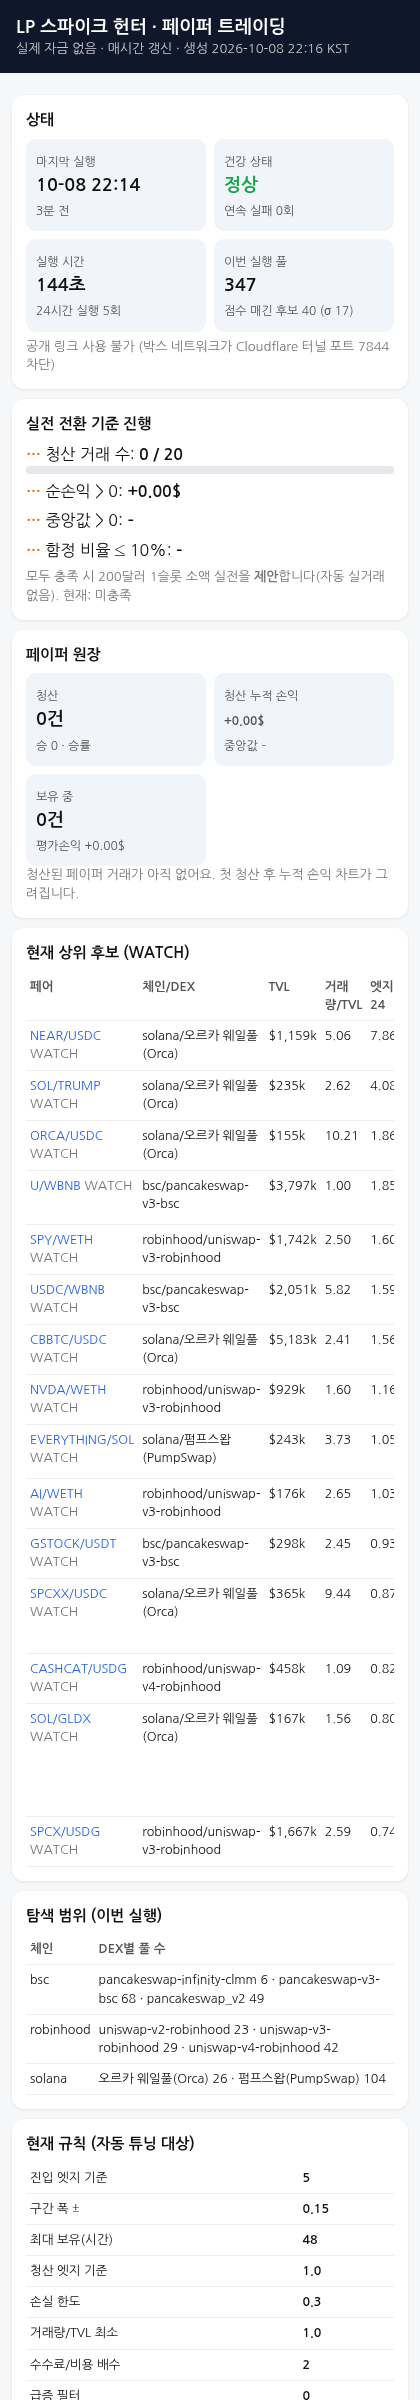
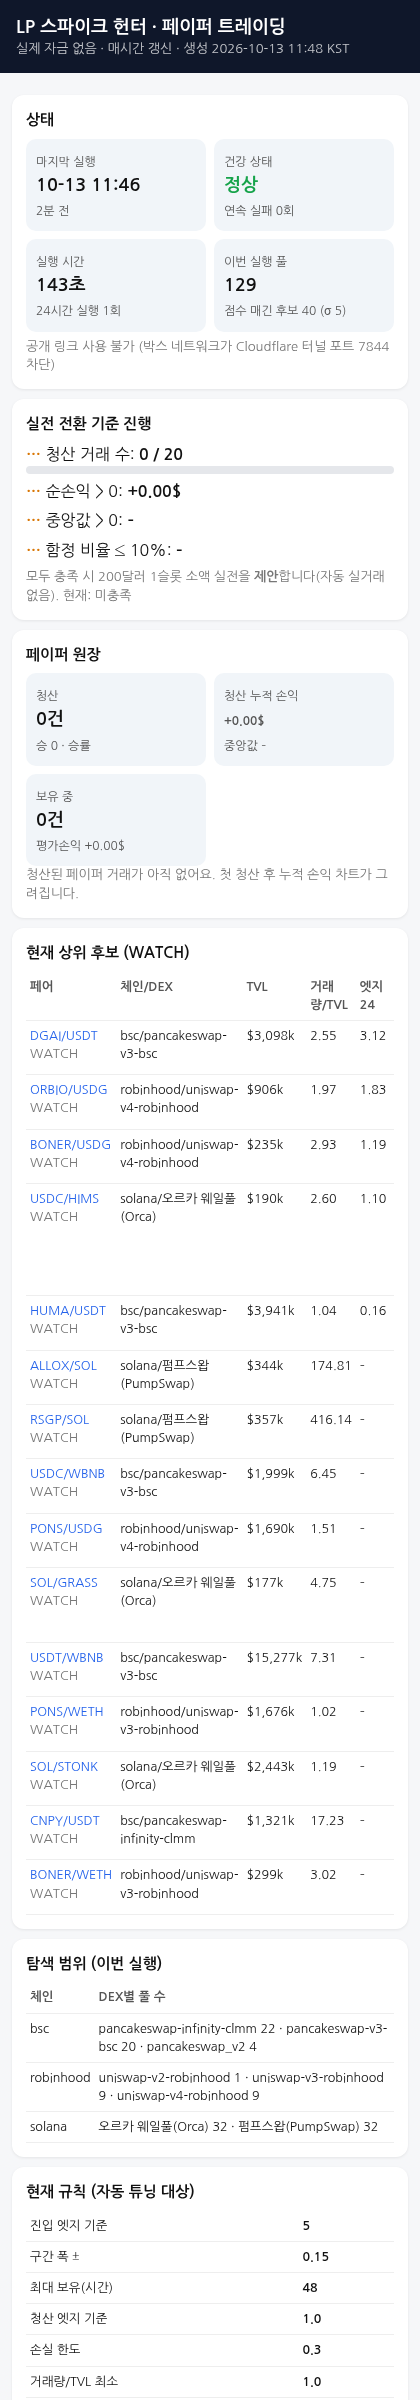
update 2026-10-13 11:48 KST

diff --git a/index.html b/index.html
@@ -12,12 +12,12 @@ th{color:#555;font-weight:600} .scroll{overflow-x:auto} .pos{color:#16a34a} .neg
 .bar{height:8px;background:#e5e7eb;border-radius:4px;overflow:hidden} .bar i{display:block;height:100%;background:#2563eb}
 .chart{width:100%;height:auto} a{color:#2563eb;text-decoration:none} .chg{color:#7c3aed;font-weight:600}
 </style></head><body>
-<header><h1>LP 스파이크 헌터 · 페이퍼 트레이딩</h1><div class="sub">실제 자금 없음 · 매시간 갱신 · 생성 2026-10-08 22:16 KST</div></header><main>
+<header><h1>LP 스파이크 헌터 · 페이퍼 트레이딩</h1><div class="sub">실제 자금 없음 · 매시간 갱신 · 생성 2026-10-13 11:48 KST</div></header><main>
 <div class="card"><h2>상태</h2><div class="grid">
-<div class="kpi"><span>마지막 실행</span><b>10-08 22:14</b><span>3분 전</span></div>
+<div class="kpi"><span>마지막 실행</span><b>10-13 11:46</b><span>2분 전</span></div>
 <div class="kpi"><span>건강 상태</span><b class="ok">정상</b><span>연속 실패 0회</span></div>
-<div class="kpi"><span>실행 시간</span><b>144초</b><span>24시간 실행 5회</span></div>
-<div class="kpi"><span>이번 실행 풀</span><b>347</b><span>점수 매긴 후보 40 (σ 17)</span></div>
+<div class="kpi"><span>실행 시간</span><b>143초</b><span>24시간 실행 1회</span></div>
+<div class="kpi"><span>이번 실행 풀</span><b>129</b><span>점수 매긴 후보 40 (σ 5)</span></div>
 </div><div class="muted" style="margin-top:6px">공개 링크 사용 불가 (박스 네트워크가 Cloudflare 터널 포트 7844 차단)</div></div>
 <div class="card"><h2>실전 전환 기준 진행</h2>
 <div style="margin:6px 0"><b class="warn">…</b> 청산 거래 수: <b>0 / 20</b><div class="bar"><i style="width:0%"></i></div></div>
@@ -32,26 +32,26 @@ th{color:#555;font-weight:600} .scroll{overflow-x:auto} .pos{color:#16a34a} .neg
 </div><div class="muted">청산된 페이퍼 거래가 아직 없어요. 첫 청산 후 누적 손익 차트가 그려집니다.</div>
 </div>
 <div class="card"><h2>현재 상위 후보 (WATCH)</h2><div class="scroll"><table><tr><th>페어</th><th>체인/DEX</th><th>TVL</th><th>거래량/TVL</th><th>엣지24</th><th>엣지6</th><th>진입 안 하는 이유</th></tr>
-<tr><td><a href='https://www.geckoterminal.com/solana/pools/77xSiQHXyH43U9RJr3FSupVzzuhh9WwweG6k3cce9sjR'>NEAR/USDC</a> <span class='muted'>WATCH</span></td><td>solana/오르카 웨일풀(Orca)</td><td>$1,159k</td><td>5.06</td><td>7.86</td><td>10.44</td><td><span class="tag">보안 플래그 (security:security_unchecked)</span></td></tr>
-<tr><td><a href='https://www.geckoterminal.com/solana/pools/Ckp1kwZqosaLU1h3zWtuaMBubyWM7LX3cxYezRVin7p2'>SOL/TRUMP</a> <span class='muted'>WATCH</span></td><td>solana/오르카 웨일풀(Orca)</td><td>$235k</td><td>2.62</td><td>4.08</td><td>9.39</td><td><span class="tag">24h 엣지 부족 (edge24&lt;5)</span><span class="tag">보안 플래그 (security:top10_holders=89%)</span></td></tr>
-<tr><td><a href='https://www.geckoterminal.com/solana/pools/5Z66YYYaTmmx1R4mATAGLSc8aV4Vfy5tNdJQzk1GP9RF'>ORCA/USDC</a> <span class='muted'>WATCH</span></td><td>solana/오르카 웨일풀(Orca)</td><td>$155k</td><td>10.21</td><td>1.86</td><td>0.18</td><td><span class="tag">24h 엣지 부족 (edge24&lt;5)</span><span class="tag">6h 엣지 부족 (edge6&lt;5)</span><span class="tag">보안 플래그 (security:security_unchecked)</span></td></tr>
-<tr><td><a href='https://www.geckoterminal.com/bsc/pools/0x882e23dba77bfe0e514cf5bcdad7a58aceb01522'>U/WBNB</a> <span class='muted'>WATCH</span></td><td>bsc/pancakeswap-v3-bsc</td><td>$3,797k</td><td>1.00</td><td>1.85</td><td>1.34</td><td><span class="tag">24h 엣지 부족 (edge24&lt;5)</span><span class="tag">6h 엣지 부족 (edge6&lt;5)</span><span class="tag">보안 플래그 (security:security_unchecked)</span><span class="tag">수수료&lt;비용 (fee24&lt;2x_cost)</span></td></tr>
-<tr><td><a href='https://www.geckoterminal.com/robinhood/pools/0xddcbba3666f578e3f09516f21ff85bfee859ab5e'>SPY/WETH</a> <span class='muted'>WATCH</span></td><td>robinhood/uniswap-v3-robinhood</td><td>$1,742k</td><td>2.50</td><td>1.60</td><td>1.77</td><td><span class="tag">24h 엣지 부족 (edge24&lt;5)</span><span class="tag">6h 엣지 부족 (edge6&lt;5)</span><span class="tag">수수료&lt;비용 (fee24&lt;2x_cost)</span></td></tr>
-<tr><td><a href='https://www.geckoterminal.com/bsc/pools/0xf2688fb5b81049dfb7703ada5e770543770612c4'>USDC/WBNB</a> <span class='muted'>WATCH</span></td><td>bsc/pancakeswap-v3-bsc</td><td>$2,051k</td><td>5.82</td><td>1.59</td><td>2.15</td><td><span class="tag">24h 엣지 부족 (edge24&lt;5)</span><span class="tag">6h 엣지 부족 (edge6&lt;5)</span><span class="tag">수수료&lt;비용 (fee24&lt;2x_cost)</span></td></tr>
-<tr><td><a href='https://www.geckoterminal.com/solana/pools/HxA6SKW5qA4o12fjVgTpXdq2YnZ5Zv1s7SB4FFomsyLM'>CBBTC/USDC</a> <span class='muted'>WATCH</span></td><td>solana/오르카 웨일풀(Orca)</td><td>$5,183k</td><td>2.41</td><td>1.56</td><td>1.86</td><td><span class="tag">24h 엣지 부족 (edge24&lt;5)</span><span class="tag">6h 엣지 부족 (edge6&lt;5)</span><span class="tag">수수료&lt;비용 (fee24&lt;2x_cost)</span></td></tr>
-<tr><td><a href='https://www.geckoterminal.com/robinhood/pools/0x62ab521f71431f78ac374cdbadc6cda3c8916b6c'>NVDA/WETH</a> <span class='muted'>WATCH</span></td><td>robinhood/uniswap-v3-robinhood</td><td>$929k</td><td>1.60</td><td>1.16</td><td>1.27</td><td><span class="tag">24h 엣지 부족 (edge24&lt;5)</span><span class="tag">6h 엣지 부족 (edge6&lt;5)</span><span class="tag">수수료&lt;비용 (fee24&lt;2x_cost)</span></td></tr>
-<tr><td><a href='https://www.geckoterminal.com/solana/pools/FcfEJ9uJFnfcSiaZgDueseCmj2np6MYxdm5h2JpFZBDc'>EVERYTHING/SOL</a> <span class='muted'>WATCH</span></td><td>solana/펌프스왑(PumpSwap)</td><td>$243k</td><td>3.73</td><td>1.05</td><td>1.08</td><td><span class="tag">24h 엣지 부족 (edge24&lt;5)</span><span class="tag">6h 엣지 부족 (edge6&lt;5)</span><span class="tag">보안 플래그 (security:security_unchecked)</span><span class="tag">수수료&lt;비용 (fee24&lt;2x_cost)</span></td></tr>
-<tr><td><a href='https://www.geckoterminal.com/robinhood/pools/0xd78480cafef722d75519e13b9f516e5704d0d659'>AI/WETH</a> <span class='muted'>WATCH</span></td><td>robinhood/uniswap-v3-robinhood</td><td>$176k</td><td>2.65</td><td>1.03</td><td>1.05</td><td><span class="tag">24h 엣지 부족 (edge24&lt;5)</span><span class="tag">6h 엣지 부족 (edge6&lt;5)</span></td></tr>
-<tr><td><a href='https://www.geckoterminal.com/bsc/pools/0x7a907a283ef913eb25bee3afd110f687a3fb7eed'>GSTOCK/USDT</a> <span class='muted'>WATCH</span></td><td>bsc/pancakeswap-v3-bsc</td><td>$298k</td><td>2.45</td><td>0.93</td><td>0.43</td><td><span class="tag">24h 엣지 부족 (edge24&lt;5)</span><span class="tag">6h 엣지 부족 (edge6&lt;5)</span><span class="tag">보안 플래그 (security:security_unchecked)</span></td></tr>
-<tr><td><a href='https://www.geckoterminal.com/solana/pools/ASAxmEaTT1HFe3mVC3zbKDE4tuB28W7732XQrEMBM5W2'>SPCXX/USDC</a> <span class='muted'>WATCH</span></td><td>solana/오르카 웨일풀(Orca)</td><td>$365k</td><td>9.44</td><td>0.87</td><td>0.44</td><td><span class="tag">24h 엣지 부족 (edge24&lt;5)</span><span class="tag">6h 엣지 부족 (edge6&lt;5)</span><span class="tag">보안 플래그 (security:security_unchecked)</span><span class="tag">수수료&lt;비용 (fee24&lt;2x_cost)</span><span class="tag">토큰-2022 위험 확장 (t22:SPCXX.pausableConfig|SPCXX.permanentDelegate)</span></td></tr>
-<tr><td><a href='https://www.geckoterminal.com/robinhood/pools/0xa92a3df27a00a276183ff7265fd8affa11df1fe8bb23ddfaf13f6c879a3f818b'>CASHCAT/USDG</a> <span class='muted'>WATCH</span></td><td>robinhood/uniswap-v4-robinhood</td><td>$458k</td><td>1.09</td><td>0.82</td><td>0.39</td><td><span class="tag">24h 엣지 부족 (edge24&lt;5)</span><span class="tag">6h 엣지 부족 (edge6&lt;5)</span></td></tr>
-<tr><td><a href='https://www.geckoterminal.com/solana/pools/HxrqS96uHco2a8LxTvUwb9e2tS963Ec6nYkvZso9TDii'>SOL/GLDX</a> <span class='muted'>WATCH</span></td><td>solana/오르카 웨일풀(Orca)</td><td>$167k</td><td>1.56</td><td>0.80</td><td>0.63</td><td><span class="tag">24h 엣지 부족 (edge24&lt;5)</span><span class="tag">6h 엣지 부족 (edge6&lt;5)</span><span class="tag">보안 플래그 (security:mintable|freezable|balance_mutable_authority|transfer_hook_upgradable|top10_holders=94%)</span><span class="tag">수수료&lt;비용 (fee24&lt;2x_cost)</span><span class="tag">토큰-2022 위험 확장 (t22:GLDX.pausableConfig|GLDX.permanentDelegate)</span></td></tr>
-<tr><td><a href='https://www.geckoterminal.com/robinhood/pools/0xc61284332117c3fb23a2a56cceffd07f7af60029'>SPCX/USDG</a> <span class='muted'>WATCH</span></td><td>robinhood/uniswap-v3-robinhood</td><td>$1,667k</td><td>2.59</td><td>0.74</td><td>0.30</td><td><span class="tag">24h 엣지 부족 (edge24&lt;5)</span><span class="tag">6h 엣지 부족 (edge6&lt;5)</span><span class="tag">수수료&lt;비용 (fee24&lt;2x_cost)</span></td></tr>
+<tr><td><a href='https://www.geckoterminal.com/bsc/pools/0x0e6e1f47c64f517fc9dc35698718c7dfc708d534'>DGAI/USDT</a> <span class='muted'>WATCH</span></td><td>bsc/pancakeswap-v3-bsc</td><td>$3,098k</td><td>2.55</td><td>3.12</td><td>3.54</td><td><span class="tag">24h 엣지 부족 (edge24&lt;5)</span><span class="tag">6h 엣지 부족 (edge6&lt;5)</span><span class="tag">보안 플래그 (security:security_unchecked)</span><span class="tag">수수료&lt;비용 (fee24&lt;2x_cost)</span><span class="tag">유동성 이력 부족(&lt;3h) (k_unsettled(&lt;3h liquidity history))</span></td></tr>
+<tr><td><a href='https://www.geckoterminal.com/robinhood/pools/0xea9f200e13055b82f175f44f592c4c13dd8c9d9320a66487d3c5cd90d68550ef'>ORBIO/USDG</a> <span class='muted'>WATCH</span></td><td>robinhood/uniswap-v4-robinhood</td><td>$906k</td><td>1.97</td><td>1.83</td><td>1.36</td><td><span class="tag">24h 엣지 부족 (edge24&lt;5)</span><span class="tag">6h 엣지 부족 (edge6&lt;5)</span><span class="tag">보안 플래그 (security:security_unchecked)</span><span class="tag">유동성 이력 부족(&lt;3h) (k_unsettled(&lt;3h liquidity history))</span></td></tr>
+<tr><td><a href='https://www.geckoterminal.com/robinhood/pools/0xfec7b1efe77aa60887986db5bcbfff39ca40b56d964bb8ce3d9dd0d9baaca4d4'>BONER/USDG</a> <span class='muted'>WATCH</span></td><td>robinhood/uniswap-v4-robinhood</td><td>$235k</td><td>2.93</td><td>1.19</td><td>3.18</td><td><span class="tag">24h 엣지 부족 (edge24&lt;5)</span><span class="tag">6h 엣지 부족 (edge6&lt;5)</span><span class="tag">보안 플래그 (security:security_unchecked)</span><span class="tag">유동성 이력 부족(&lt;3h) (k_unsettled(&lt;3h liquidity history))</span></td></tr>
+<tr><td><a href='https://www.geckoterminal.com/solana/pools/7iqWWNjubSTjmWXk9eYJViDLZjBN2KjrYt5Z9j8n8exQ'>USDC/HIMS</a> <span class='muted'>WATCH</span></td><td>solana/오르카 웨일풀(Orca)</td><td>$190k</td><td>2.60</td><td>1.10</td><td>3.56</td><td><span class="tag">24h 엣지 부족 (edge24&lt;5)</span><span class="tag">6h 엣지 부족 (edge6&lt;5)</span><span class="tag">보안 플래그 (security:mintable|freezable|balance_mutable_authority|transfer_hook_upgradable|top10_holders=71%)</span><span class="tag">유동성 이력 부족(&lt;3h) (k_unsettled(&lt;3h liquidity history))</span><span class="tag">토큰-2022 위험 확장 (t22:HIMS.pausableConfig|HIMS.permanentDelegate)</span></td></tr>
+<tr><td><a href='https://www.geckoterminal.com/bsc/pools/0x7874f0ecd450a5f06acb85543fe1d0d48e1c525f'>HUMA/USDT</a> <span class='muted'>WATCH</span></td><td>bsc/pancakeswap-v3-bsc</td><td>$3,941k</td><td>1.04</td><td>0.16</td><td>0.16</td><td><span class="tag">24h 엣지 부족 (edge24&lt;5)</span><span class="tag">6h 엣지 부족 (edge6&lt;5)</span><span class="tag">보안 플래그 (security:top10_holders=74%)</span><span class="tag">수수료&lt;비용 (fee24&lt;2x_cost)</span><span class="tag">유동성 이력 부족(&lt;3h) (k_unsettled(&lt;3h liquidity history))</span></td></tr>
+<tr><td><a href='https://www.geckoterminal.com/solana/pools/2Ufupi3yBNNHRknEfag4eNTEyDPx6UN4uWd7mmAoVNpy'>ALLOX/SOL</a> <span class='muted'>WATCH</span></td><td>solana/펌프스왑(PumpSwap)</td><td>$344k</td><td>174.81</td><td>–</td><td>–</td><td><span class="tag">변동성 데이터 없음</span><span class="tag">24h 엣지 부족 (edge24&lt;5)</span><span class="tag">6h 엣지 부족 (edge6&lt;5)</span><span class="tag">너무 신규</span><span class="tag">보안 플래그 (security:security_unchecked)</span></td></tr>
+<tr><td><a href='https://www.geckoterminal.com/solana/pools/D3vzKTEJntE3wSu4QaPd79e2bnifnHggVDVewu1ukkAJ'>RSGP/SOL</a> <span class='muted'>WATCH</span></td><td>solana/펌프스왑(PumpSwap)</td><td>$357k</td><td>416.14</td><td>–</td><td>–</td><td><span class="tag">변동성 데이터 없음</span><span class="tag">24h 엣지 부족 (edge24&lt;5)</span><span class="tag">6h 엣지 부족 (edge6&lt;5)</span><span class="tag">보안 플래그 (security:security_unchecked)</span></td></tr>
+<tr><td><a href='https://www.geckoterminal.com/bsc/pools/0xf2688fb5b81049dfb7703ada5e770543770612c4'>USDC/WBNB</a> <span class='muted'>WATCH</span></td><td>bsc/pancakeswap-v3-bsc</td><td>$1,999k</td><td>6.45</td><td>–</td><td>–</td><td><span class="tag">변동성 데이터 없음</span><span class="tag">24h 엣지 부족 (edge24&lt;5)</span><span class="tag">6h 엣지 부족 (edge6&lt;5)</span><span class="tag">유동성 이력 부족(&lt;3h) (k_unsettled(&lt;3h liquidity history))</span></td></tr>
+<tr><td><a href='https://www.geckoterminal.com/robinhood/pools/0x4be9657ec9002e528f4f17a5c43edc525a07f888f7b180c2afbf75e096c4f38a'>PONS/USDG</a> <span class='muted'>WATCH</span></td><td>robinhood/uniswap-v4-robinhood</td><td>$1,690k</td><td>1.51</td><td>–</td><td>–</td><td><span class="tag">변동성 데이터 없음</span><span class="tag">24h 엣지 부족 (edge24&lt;5)</span><span class="tag">6h 엣지 부족 (edge6&lt;5)</span><span class="tag">유동성 이력 부족(&lt;3h) (k_unsettled(&lt;3h liquidity history))</span></td></tr>
+<tr><td><a href='https://www.geckoterminal.com/solana/pools/6ScK5vYV7tbe8rR6Sc8gJwDzKkotNjRFzCe6YCw8Nfkg'>SOL/GRASS</a> <span class='muted'>WATCH</span></td><td>solana/오르카 웨일풀(Orca)</td><td>$177k</td><td>4.75</td><td>–</td><td>–</td><td><span class="tag">변동성 데이터 없음</span><span class="tag">24h 엣지 부족 (edge24&lt;5)</span><span class="tag">6h 엣지 부족 (edge6&lt;5)</span><span class="tag">보안 플래그 (security:mintable|top10_holders=51%)</span><span class="tag">유동성 이력 부족(&lt;3h) (k_unsettled(&lt;3h liquidity history))</span></td></tr>
+<tr><td><a href='https://www.geckoterminal.com/bsc/pools/0x172fcd41e0913e95784454622d1c3724f546f849'>USDT/WBNB</a> <span class='muted'>WATCH</span></td><td>bsc/pancakeswap-v3-bsc</td><td>$15,277k</td><td>7.31</td><td>–</td><td>–</td><td><span class="tag">변동성 데이터 없음</span><span class="tag">24h 엣지 부족 (edge24&lt;5)</span><span class="tag">6h 엣지 부족 (edge6&lt;5)</span><span class="tag">유동성 이력 부족(&lt;3h) (k_unsettled(&lt;3h liquidity history))</span></td></tr>
+<tr><td><a href='https://www.geckoterminal.com/robinhood/pools/0xed50bdeea8adc232f159486192a4157281d722ff'>PONS/WETH</a> <span class='muted'>WATCH</span></td><td>robinhood/uniswap-v3-robinhood</td><td>$1,676k</td><td>1.02</td><td>–</td><td>–</td><td><span class="tag">변동성 데이터 없음</span><span class="tag">24h 엣지 부족 (edge24&lt;5)</span><span class="tag">6h 엣지 부족 (edge6&lt;5)</span><span class="tag">유동성 이력 부족(&lt;3h) (k_unsettled(&lt;3h liquidity history))</span></td></tr>
+<tr><td><a href='https://www.geckoterminal.com/solana/pools/AfrddTGYwCVEQB1gxCAhR8i48o6qtxYqksdVkeLudEhg'>SOL/STONK</a> <span class='muted'>WATCH</span></td><td>solana/오르카 웨일풀(Orca)</td><td>$2,443k</td><td>1.19</td><td>–</td><td>–</td><td><span class="tag">변동성 데이터 없음</span><span class="tag">24h 엣지 부족 (edge24&lt;5)</span><span class="tag">6h 엣지 부족 (edge6&lt;5)</span><span class="tag">유동성 이력 부족(&lt;3h) (k_unsettled(&lt;3h liquidity history))</span></td></tr>
+<tr><td><a href='https://www.geckoterminal.com/bsc/pools/0xc7bb4cf4c51fd655ea0368255929f1a42ba1a67e1e8805c54e81d61dc28f3f74'>CNPY/USDT</a> <span class='muted'>WATCH</span></td><td>bsc/pancakeswap-infinity-clmm</td><td>$1,321k</td><td>17.23</td><td>–</td><td>–</td><td><span class="tag">변동성 데이터 없음</span><span class="tag">24h 엣지 부족 (edge24&lt;5)</span><span class="tag">6h 엣지 부족 (edge6&lt;5)</span><span class="tag">보안 플래그 (security:mintable|top10_holders=76%)</span></td></tr>
+<tr><td><a href='https://www.geckoterminal.com/robinhood/pools/0xbd5cd6515ca6285941fbc177381dc8ed4844e6b8'>BONER/WETH</a> <span class='muted'>WATCH</span></td><td>robinhood/uniswap-v3-robinhood</td><td>$299k</td><td>3.02</td><td>–</td><td>–</td><td><span class="tag">변동성 데이터 없음</span><span class="tag">24h 엣지 부족 (edge24&lt;5)</span><span class="tag">6h 엣지 부족 (edge6&lt;5)</span><span class="tag">보안 플래그 (security:security_unchecked)</span><span class="tag">유동성 이력 부족(&lt;3h) (k_unsettled(&lt;3h liquidity history))</span></td></tr>
 </table></div></div>
 <div class="card"><h2>탐색 범위 (이번 실행)</h2><table><tr><th>체인</th><th>DEX별 풀 수</th></tr>
-<tr><td>bsc</td><td>pancakeswap-infinity-clmm 6 · pancakeswap-v3-bsc 68 · pancakeswap_v2 49</td></tr>
-<tr><td>robinhood</td><td>uniswap-v2-robinhood 23 · uniswap-v3-robinhood 29 · uniswap-v4-robinhood 42</td></tr>
-<tr><td>solana</td><td>오르카 웨일풀(Orca) 26 · 펌프스왑(PumpSwap) 104</td></tr>
+<tr><td>bsc</td><td>pancakeswap-infinity-clmm 22 · pancakeswap-v3-bsc 20 · pancakeswap_v2 4</td></tr>
+<tr><td>robinhood</td><td>uniswap-v2-robinhood 1 · uniswap-v3-robinhood 9 · uniswap-v4-robinhood 9</td></tr>
+<tr><td>solana</td><td>오르카 웨일풀(Orca) 32 · 펌프스왑(PumpSwap) 32</td></tr>
 </table></div>
 <div class="card"><h2>현재 규칙 (자동 튜닝 대상)</h2><table>
 <tr><td>진입 엣지 기준</td><td><b>5</b></td></tr>
@@ -63,6 +63,7 @@ th{color:#555;font-weight:600} .scroll{overflow-x:auto} .pos{color:#16a34a} .neg
 <tr><td>수수료/비용 배수</td><td><b>2</b></td></tr>
 <tr><td>급증 필터</td><td><b>0</b></td></tr>
 </table><h2 style="margin-top:12px">튜닝 기록 (최근)</h2>
+<div style="margin:6px 0;font-size:13px"><b class="muted">2026-10-13 11:48 KST</b> 유지 2026-10-13 11:48 KST: {&#x27;E&#x27;: 5, &#x27;W&#x27;: 0.15, &#x27;H&#x27;: 48, &#x27;X&#x27;: 1.0, &#x27;LL&#x27;: 0.3, &#x27;T&#x27;: 1.0, &#x27;FC&#x27;: 2} 유지. 이유: no improve (mean +7.11%→+7.06%, median +3.21%→+3.08%). 현재 OOS n=53 hit 81% mean +7.11% median +3.21% Σ $+753 / 후보 {&#x27;E&#x27;: 5, &#x27;W&#x27;: 0.15, &#x27;H&#x27;: 48, &#x27;X&#x27;: 0.5, &#x27;LL&#x27;: 0.3, &#x27;T&#x27;: 1.0, &#x27;FC&#x27;: 1} OOS n=53 hit 81% mean +7.06% median +3.08% Σ $+748. 페이퍼 청산 0건 Σ $+0.00. (4.0s)</div>
 <div style="margin:6px 0;font-size:13px"><b class="muted">2026-10-08 22:16 KST</b> 유지 2026-10-08 22:16 KST: {&#x27;E&#x27;: 5, &#x27;W&#x27;: 0.15, &#x27;H&#x27;: 48, &#x27;X&#x27;: 1.0, &#x27;LL&#x27;: 0.3, &#x27;T&#x27;: 1.0, &#x27;FC&#x27;: 2} 유지. 이유: no improve (mean +7.11%→+7.06%, median +3.21%→+3.08%). 현재 OOS n=53 hit 81% mean +7.11% median +3.21% Σ $+753 / 후보 {&#x27;E&#x27;: 5, &#x27;W&#x27;: 0.15, &#x27;H&#x27;: 48, &#x27;X&#x27;: 0.5, &#x27;LL&#x27;: 0.3, &#x27;T&#x27;: 1.0, &#x27;FC&#x27;: 1} OOS n=53 hit 81% mean +7.06% median +3.08% Σ $+748. 페이퍼 청산 0건 Σ $+0.00. (5.5s)</div>
 <div style="margin:6px 0;font-size:13px"><b class="muted">2026-10-08 19:00 KST</b> 유지 2026-10-08 19:00 KST: {&#x27;E&#x27;: 5, &#x27;W&#x27;: 0.15, &#x27;H&#x27;: 48, &#x27;X&#x27;: 1.0, &#x27;LL&#x27;: 0.3, &#x27;T&#x27;: 1.0, &#x27;FC&#x27;: 2} 유지. 이유: no improve (mean +7.11%→+7.06%, median +3.21%→+3.08%). 현재 OOS n=53 hit 81% mean +7.11% median +3.21% Σ $+753 / 후보 {&#x27;E&#x27;: 5, &#x27;W&#x27;: 0.15, &#x27;H&#x27;: 48, &#x27;X&#x27;: 0.5, &#x27;LL&#x27;: 0.3, &#x27;T&#x27;: 1.0, &#x27;FC&#x27;: 1} OOS n=53 hit 81% mean +7.06% median +3.08% Σ $+748. 페이퍼 청산 0건 Σ $+0.00. (5.6s)</div>
 <div style="margin:6px 0;font-size:13px"><b class="muted">2026-10-08 16:03 KST</b> 유지 2026-10-08 16:03 KST: {&#x27;E&#x27;: 5, &#x27;W&#x27;: 0.15, &#x27;H&#x27;: 48, &#x27;X&#x27;: 1.0, &#x27;LL&#x27;: 0.3, &#x27;T&#x27;: 1.0, &#x27;FC&#x27;: 2} 유지. 이유: no improve (mean +7.11%→+7.06%, median +3.21%→+3.08%). 현재 OOS n=53 hit 81% mean +7.11% median +3.21% Σ $+753 / 후보 {&#x27;E&#x27;: 5, &#x27;W&#x27;: 0.15, &#x27;H&#x27;: 48, &#x27;X&#x27;: 0.5, &#x27;LL&#x27;: 0.3, &#x27;T&#x27;: 1.0, &#x27;FC&#x27;: 1} OOS n=53 hit 81% mean +7.06% median +3.08% Σ $+748. 페이퍼 청산 0건 Σ $+0.00. (4.7s)</div>
